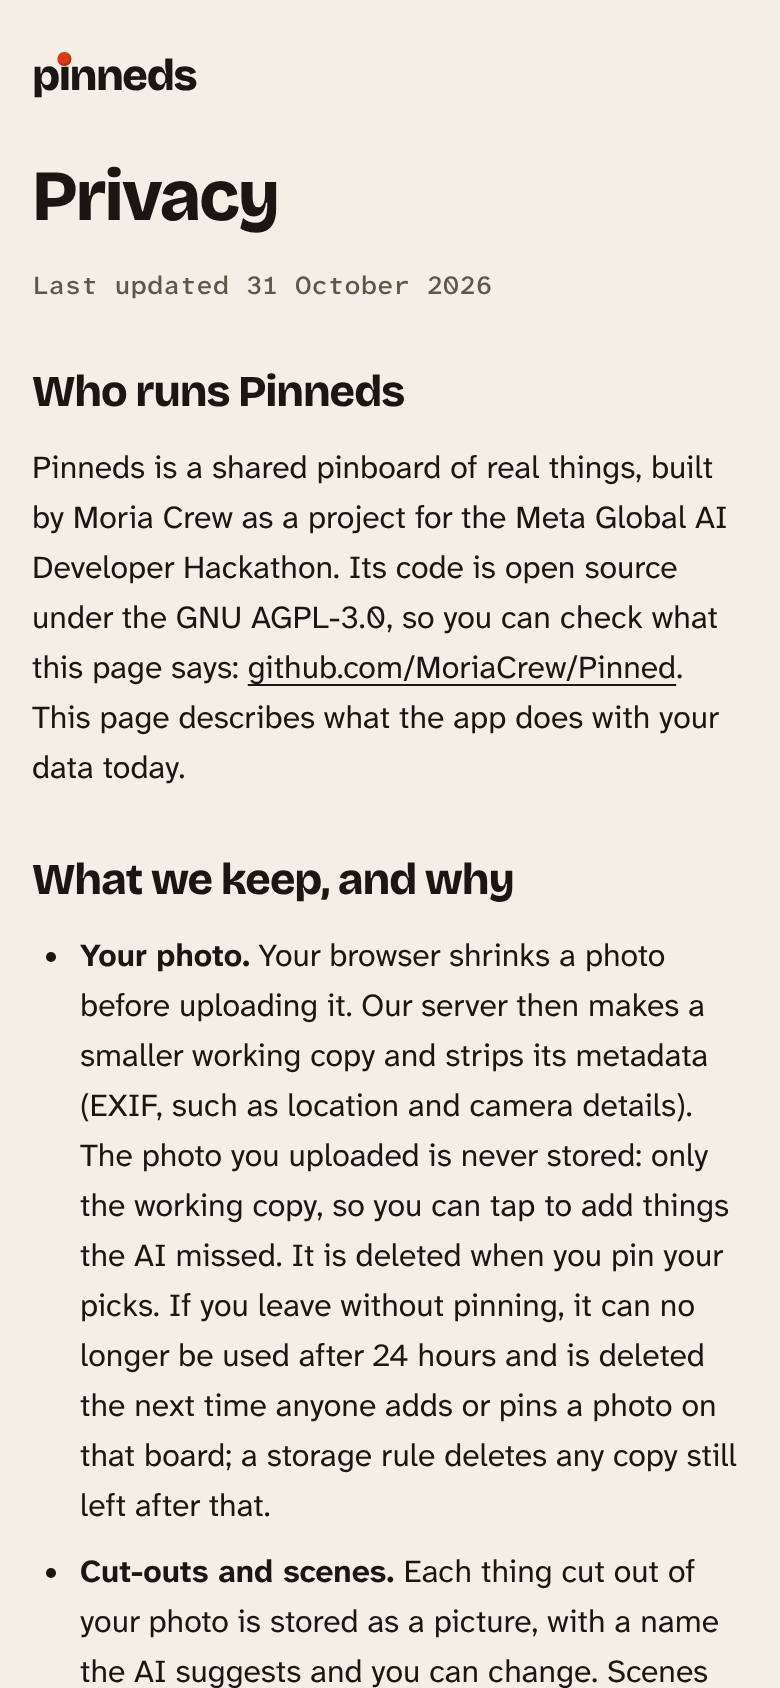
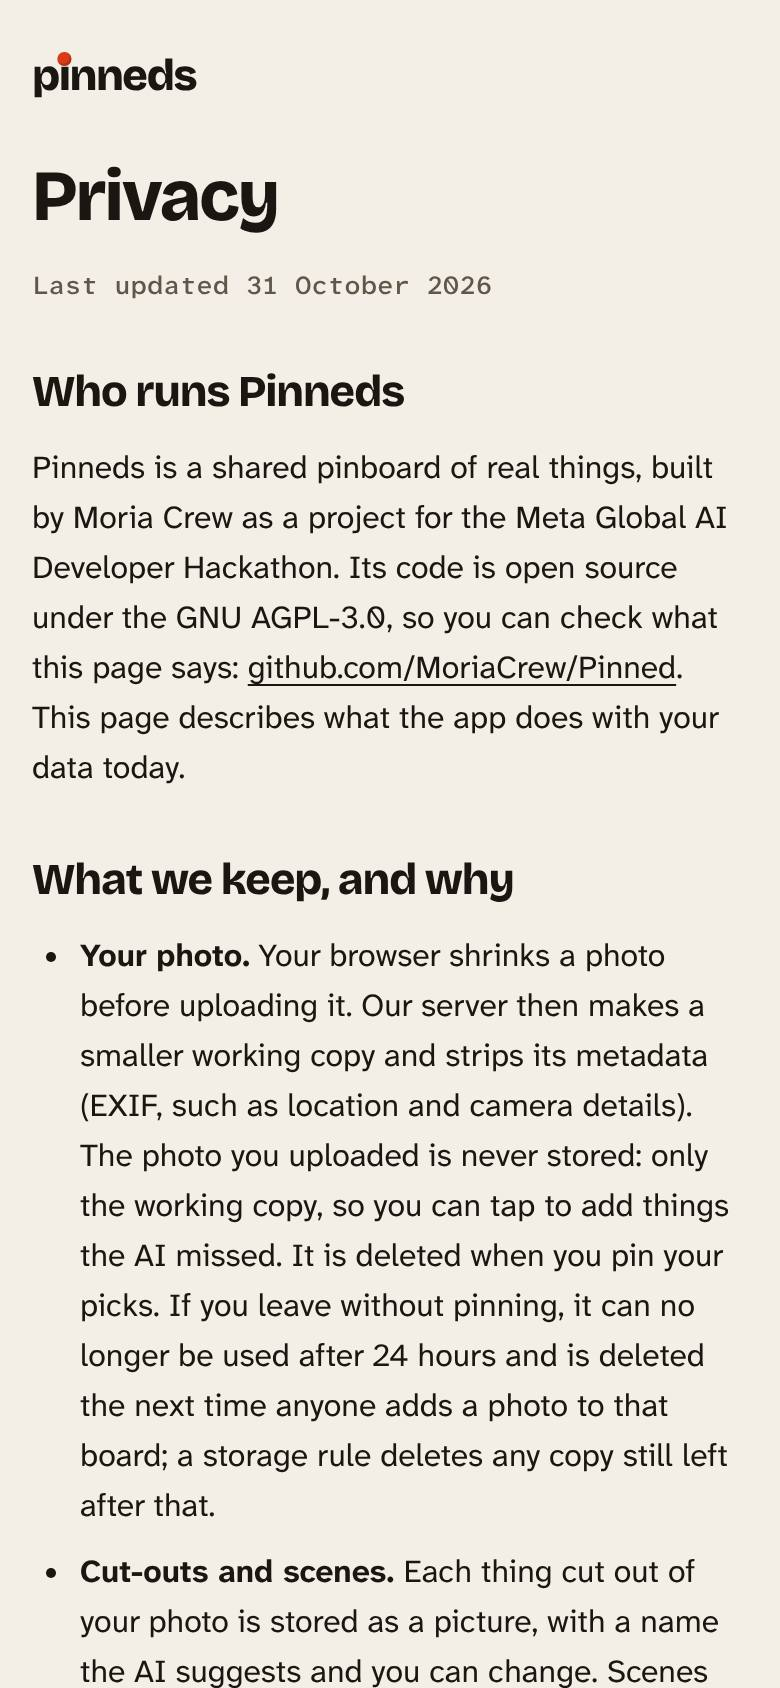
fix(board): working-copy sweep runs on the next upload only
sweepExpiredWorkingCopies is called from uploadPhoto alone, so the
privacy page no longer says a pin also triggers it. Re-shot the top
of the page.

Claude-Session: https://claude.ai/code/session_014QzxGNxgsixYyZQgBmBkV4

Changed region(s): [[0.4923, 0.8318, 0.9231, 0.8934], [0.0923, 0.8318, 0.3692, 0.9242], [0.4, 0.8626, 0.4615, 0.8934]]

diff --git a/src/app/privacy/page.tsx b/src/app/privacy/page.tsx
@@ -47,8 +47,8 @@ export default async function PrivacyPage() {
             smaller working copy and strips its metadata (EXIF, such as location and camera details). The photo
             you uploaded is never stored: only the working copy, so you can tap to add things the AI missed. It
             is deleted when you pin your picks. If you leave without pinning, it can no longer be used after{" "}
-            {plural(policy.workingCopyTtlHours, "hour")} and is deleted the next time anyone adds or pins a photo
-            on that board; a storage rule deletes any copy still left after that.
+            {plural(policy.workingCopyTtlHours, "hour")} and is deleted the next time anyone adds a photo to that
+            board; a storage rule deletes any copy still left after that.
           </li>
           <li>
             <strong>Cut-outs and scenes.</strong> Each thing cut out of your photo is stored as a picture, with a
